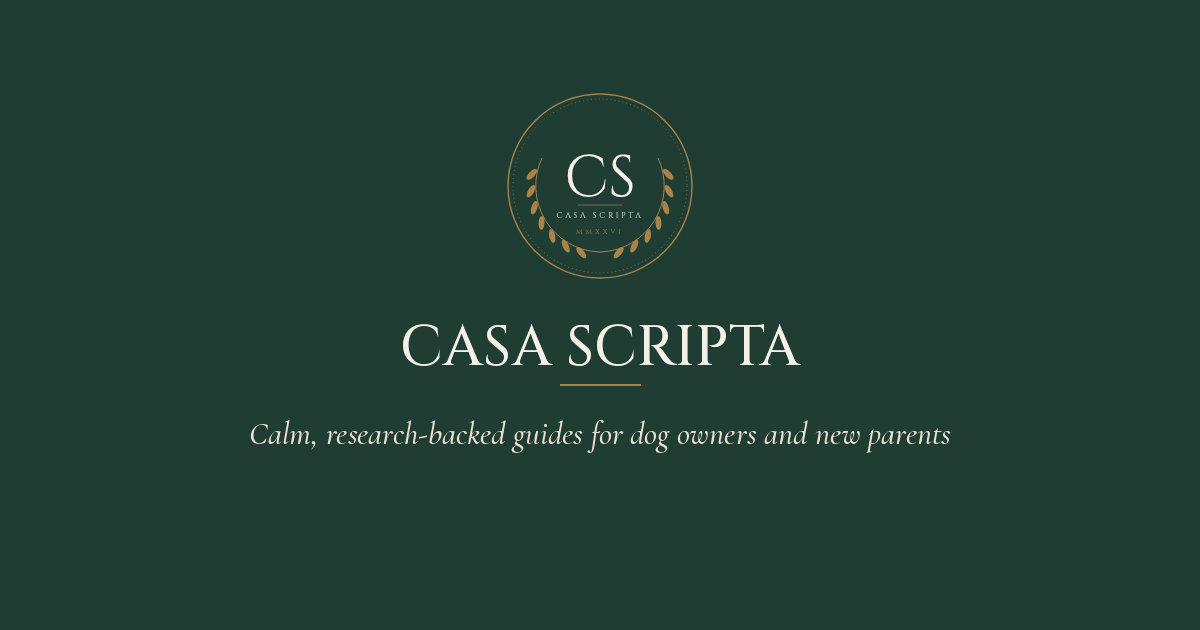
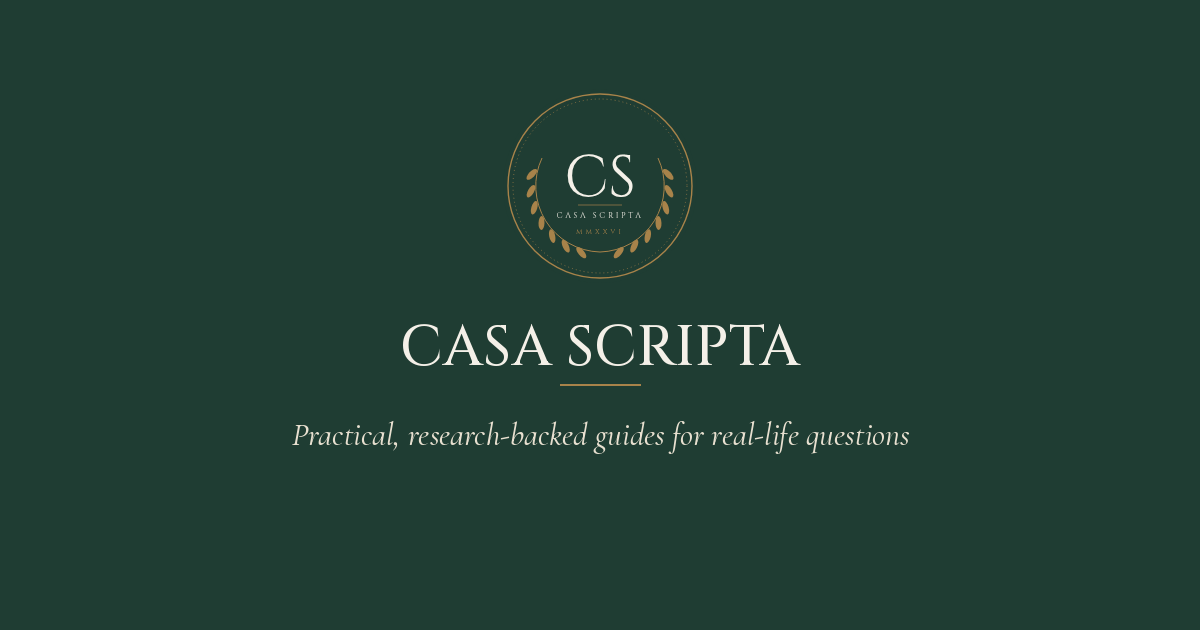
Homepage tagline: 'Practical, research-backed guides for real-life questions.' (title, meta, og, H1, share image). Devid yes 11:41.

Changed region(s): [[0.2158, 0.6635, 0.8017, 0.7238]]

diff --git a/index.html b/index.html
@@ -4,10 +4,10 @@
 <meta charset="utf-8">
 <meta name="p:domain_verify" content="861c64e75c5b6c5d391f43c69fd0a3fe"/>
 <meta name="viewport" content="width=device-width, initial-scale=1">
-<title>Casa Scripta | Calm, research-backed guides for dog owners and new parents</title>
-<meta name="description" content="Short, research-backed guides for dog owners and new parents: Alone at Home for separation anxiety and Gentler Nights for baby sleep. Free checklists included.">
+<title>Casa Scripta | Practical, research-backed guides for real-life questions</title>
+<meta name="description" content="Short, practical, research-backed guides for real-life questions, starting with Alone at Home for dog separation anxiety and Gentler Nights for baby sleep. Free checklists included.">
 <meta property="og:title" content="Casa Scripta">
-<meta property="og:description" content="Calm, research-backed guides for dog owners and new parents.">
+<meta property="og:description" content="Practical, research-backed guides for real-life questions.">
 <meta property="og:type" content="website">
 <meta property="og:url" content="https://casascripta.com/">
 <meta property="og:image" content="https://casascripta.com/images/og/casascripta-og.png">
@@ -96,7 +96,7 @@ footer .cinzel{font-size:12px;color:var(--ink);display:block;margin-bottom:6px}
 <p class="wordmark">CASA SCRIPTA</p>
 <div class="year">MMXXVI</div>
 <div class="rule"></div>
-<h1>Calm, research-backed guides for dog owners and new parents.</h1>
+<h1>Practical, research-backed guides for real-life questions.</h1>
 <a class="btn" href="#books">SEE THE GUIDES</a>
 </header>
 <section id="books">
